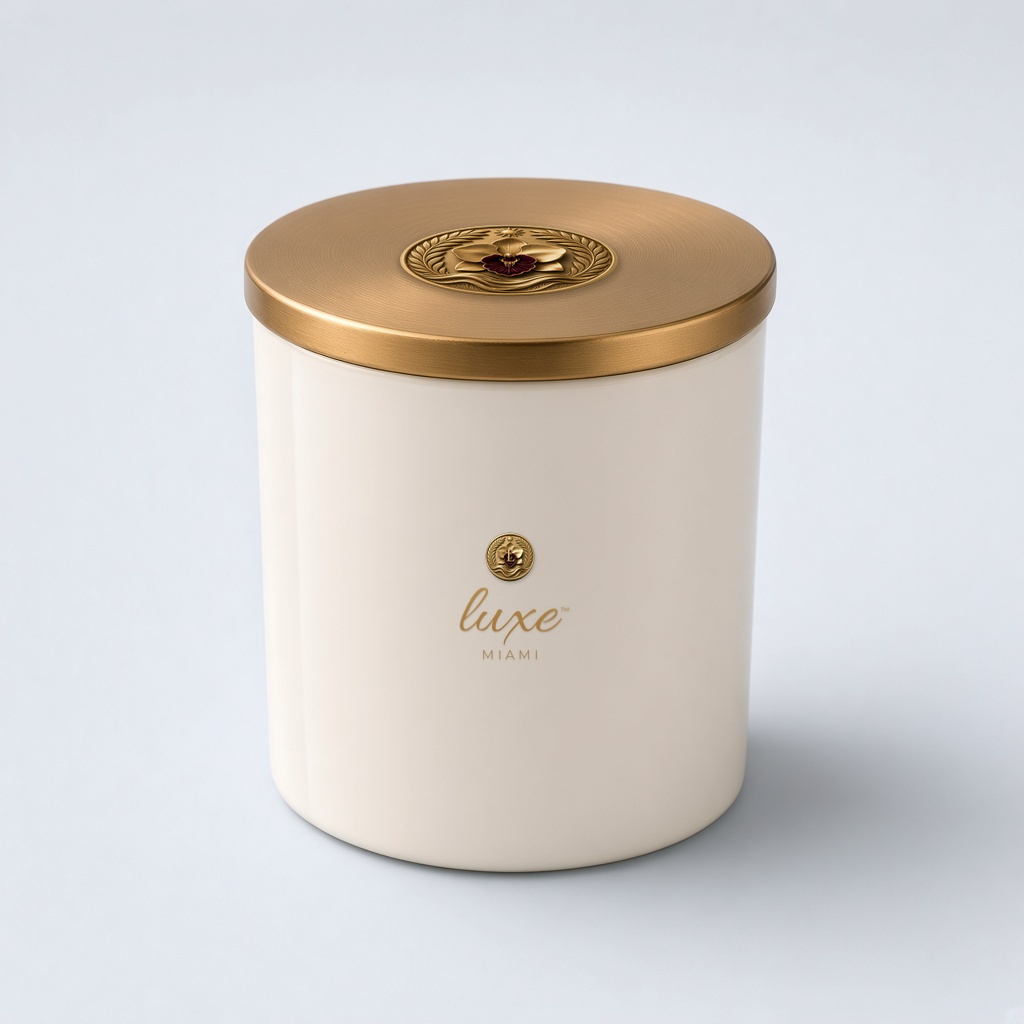
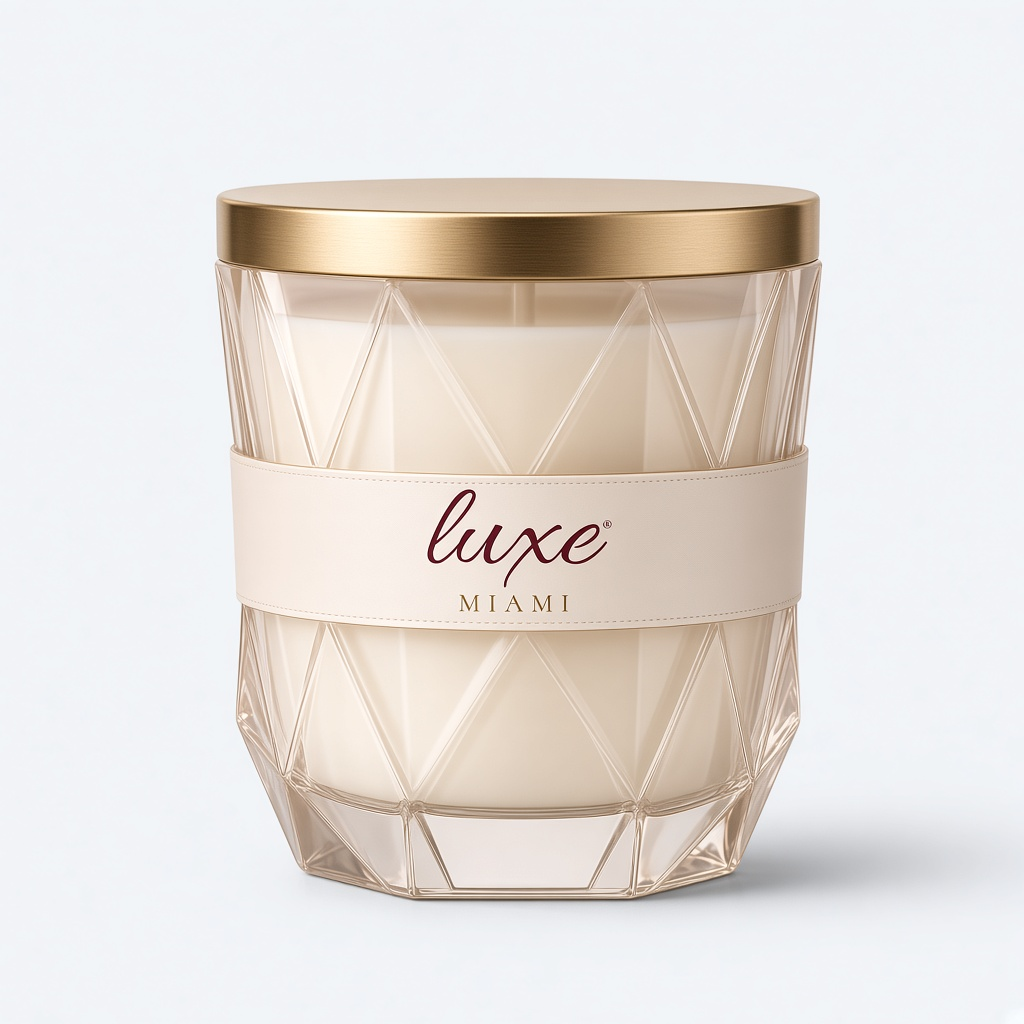
Swap beauty-v4 shelf shots for LX-B01 through LX-B08
Replace the eight #products tile JPEGs with Mateo’s beauty-v4 photographs, keeping the existing spa/products filenames. Alt text matches the new packs. LX-06 Gratitude plates, the unused Nuit campaign still, and Notify CTAs stay as they are.

diff --git a/index.html b/index.html
@@ -1617,7 +1617,7 @@ html.js [data-reveal] { opacity: 0; transform: translateY(12px); }
           <div class="product-row" id="product-row" tabindex="0">
             <article class="product-card">
               <div class="product-card__media">
-                <img src="spa/products/LX-B07-la-veilleuse.jpg" alt="La Veilleuse: a cream candle vessel with a brushed gold lid, a small gold seal, and luxe Miami in gold script." width="1024" height="1024" loading="lazy">
+                <img src="spa/products/LX-B07-la-veilleuse.jpg" alt="La Veilleuse: a faceted glass candle of cream wax under a brushed gold lid, with a cream band lettered luxe Miami." width="1024" height="1024" loading="lazy">
               </div>
               <div class="product-card__body">
                 <p class="product-card__index">01</p>
@@ -1644,7 +1644,7 @@ html.js [data-reveal] { opacity: 0; transform: translateY(12px); }
             </article>
             <article class="product-card">
               <div class="product-card__media">
-                <img src="spa/products/LX-B01-signet-rouge.jpg" alt="Signet Rouge: a closed antique-gold cylinder with a burgundy velvet band lettered luxe Miami, and a gold lid embossed with leaves, an orchid, and a burgundy heart." width="1024" height="1024" loading="lazy">
+                <img src="spa/products/LX-B01-signet-rouge.jpg" alt="Signet Rouge: an open antique-gold lipstick with a rose-red bullet and a burgundy velvet band lettered luxe Miami." width="1024" height="1024" loading="lazy">
               </div>
               <div class="product-card__body">
                 <p class="product-card__index">02</p>
@@ -1671,7 +1671,7 @@ html.js [data-reveal] { opacity: 0; transform: translateY(12px); }
             </article>
             <article class="product-card">
               <div class="product-card__media">
-                <img src="spa/products/LX-B02-brickell-pearls.jpg" alt="Brickell Pearls: an open cream compact filled with pink and ivory powder pearls, a gold band lettered luxe Miami, and a lid medallion with an orchid and a burgundy heart." width="1024" height="1024" loading="lazy">
+                <img src="spa/products/LX-B02-brickell-pearls.jpg" alt="Brickell Pearls: an open gold compact of pink and ivory powder pearls with a cream puff, and a lid lettered luxe Miami." width="1024" height="1024" loading="lazy">
               </div>
               <div class="product-card__body">
                 <p class="product-card__index">03</p>
@@ -1698,7 +1698,7 @@ html.js [data-reveal] { opacity: 0; transform: translateY(12px); }
             </article>
             <article class="product-card">
               <div class="product-card__media">
-                <img src="spa/products/LX-B03-miel-de-mar.jpg" alt="Miel de Mar: a tall fluted glass vial of amber lip oil under a gold cap, with a burgundy velvet heart on the lid and luxe Miami on the collar." width="1024" height="1024" loading="lazy">
+                <img src="spa/products/LX-B03-miel-de-mar.jpg" alt="Miel de Mar: a glass vial of coral lip oil under an ornate gold cap, with a cream label lettered luxe Miami." width="1024" height="1024" loading="lazy">
               </div>
               <div class="product-card__body">
                 <p class="product-card__index">04</p>
@@ -1725,7 +1725,7 @@ html.js [data-reveal] { opacity: 0; transform: translateY(12px); }
             </article>
             <article class="product-card">
               <div class="product-card__media">
-                <img src="spa/products/LX-B04-quatre-palmes.jpg" alt="Quatre Palmes: a closed burgundy velvet box embossed with palm trees, a gold clasp with an orchid and a burgundy heart, and luxe Miami in gold script." width="1024" height="1024" loading="lazy">
+                <img src="spa/products/LX-B04-quatre-palmes.jpg" alt="Quatre Palmes: an open gold compact of four warm and burgundy eyeshadows beside a closed burgundy velvet box lettered luxe Miami." width="1024" height="1024" loading="lazy">
               </div>
               <div class="product-card__body">
                 <p class="product-card__index">05</p>
@@ -1752,7 +1752,7 @@ html.js [data-reveal] { opacity: 0; transform: translateY(12px); }
             </article>
             <article class="product-card">
               <div class="product-card__media">
-                <img src="spa/products/LX-B05-causeway-bronze.jpg" alt="Causeway Bronze: an open cream compact of bronze powder pressed into waves, a gold band lettered luxe Miami, and a lid medallion with an orchid and a burgundy heart." width="1024" height="1024" loading="lazy">
+                <img src="spa/products/LX-B05-causeway-bronze.jpg" alt="Causeway Bronze: an open compact of bronze powder pressed into waves, with a cream lid lettered luxe Miami." width="1024" height="1024" loading="lazy">
               </div>
               <div class="product-card__body">
                 <p class="product-card__index">06</p>
@@ -1779,7 +1779,7 @@ html.js [data-reveal] { opacity: 0; transform: translateY(12px); }
             </article>
             <article class="product-card">
               <div class="product-card__media">
-                <img src="spa/products/LX-B06-nuit-de-velours.jpg" alt="Nuit de Velours: a faceted amber glass flacon with a gold stopper, a burgundy velvet ribbon, and a gold orchid charm with a burgundy heart, on a pale ground." width="1024" height="1024" loading="lazy">
+                <img src="spa/products/LX-B06-nuit-de-velours.jpg" alt="Nuit de Velours: a rectangular amber glass flacon with an ornate gold stopper and a burgundy velvet medallion lettered luxe Miami." width="1024" height="1024" loading="lazy">
               </div>
               <div class="product-card__body">
                 <p class="product-card__index">07</p>
@@ -1806,7 +1806,7 @@ html.js [data-reveal] { opacity: 0; transform: translateY(12px); }
             </article>
             <article class="product-card">
               <div class="product-card__media">
-                <img src="spa/products/LX-B08-agua-de-seda.jpg" alt="Agua de Seda: a frosted glass dropper bottle with a burgundy velvet bulb, gold rope collars, and a small gold medallion, with luxe Miami on the glass." width="1024" height="1024" loading="lazy">
+                <img src="spa/products/LX-B08-agua-de-seda.jpg" alt="Agua de Seda: a frosted glass dropper of golden oil with a burgundy velvet bulb, an orchid medallion, and a cream label lettered luxe Miami." width="1024" height="1024" loading="lazy">
               </div>
               <div class="product-card__body">
                 <p class="product-card__index">08</p>

diff --git a/README.md b/README.md
@@ -27,4 +27,4 @@ In the works is nine planned services. The squares do not carry a “not offered
 
 The LX-06 Gratitude card and seal set leads the Products campaign on an ivory ground. The hero is the clean plate `spa/products/LX-06-gratitude-folded-set-hero.jpg`. The campaign title is Gratitude card & seal set, the pill is Waitlist open, and Join the waitlist goes to `#lx-06`. The same waitlist also lives on `lx-06.html`. Nothing on that block is for sale. The header label Gratitude and the footer link point there. `spa/products/LX-06-gratitude-set.jpg` and `spa/products/LX-06-gratitude-seals.jpg` stay on the `#lx-06` section.
 
-Products sits after The Atelier and before the LX-06 waitlist. LX-B06 Nuit de Velours is a fragrance concept on the shelf only: pill Members only, CTA Notify me. It is not the Products heading and not the campaign still. `spa/products/LX-B06-nuit-de-velours-campaign.jpg` remains in the repo and is not used on the page. The shelf opens with LX-B07 La Veilleuse, then the beauty concepts. Beauty masters `LX-B01-signet-rouge.jpg` through `LX-B08-agua-de-seda.jpg` are unchanged. Each beauty and candle card posts a notify note for that SKU through the same FormSubmit address, with the SKU in the subject and body. Status language is Waitlist open (LX-06 only), Members only, By member appointment, In the works, Taking shape, and On the horizon. Nothing on the shelf is for sale. The pack lettering in the beauty photographs is larger than a tiny house line, and the seals are large medallions. They are used as photographed. Names on the shelf still need a trademark check before a public launch. LX-06 is the paper set. LX-B06 is the fragrance. Those names are not interchangeable.
+Products sits after The Atelier and before the LX-06 waitlist. LX-B06 Nuit de Velours is a fragrance concept on the shelf only: pill Members only, CTA Notify me. It is not the Products heading and not the campaign still. `spa/products/LX-B06-nuit-de-velours-campaign.jpg` remains in the repo and is not used on the page. The shelf opens with LX-B07 La Veilleuse, then the beauty concepts. Beauty masters `LX-B01-signet-rouge.jpg` through `LX-B08-agua-de-seda.jpg` are the beauty-v4 shots, kept at those filenames. Each beauty and candle card posts a notify note for that SKU through the same FormSubmit address, with the SKU in the subject and body. Status language is Waitlist open (LX-06 only), Members only, By member appointment, In the works, Taking shape, and On the horizon. Nothing on the shelf is for sale. The beauty-v4 photographs are used as shot. Names on the shelf still need a trademark check before a public launch. LX-06 is the paper set. LX-B06 is the fragrance. Those names are not interchangeable.
